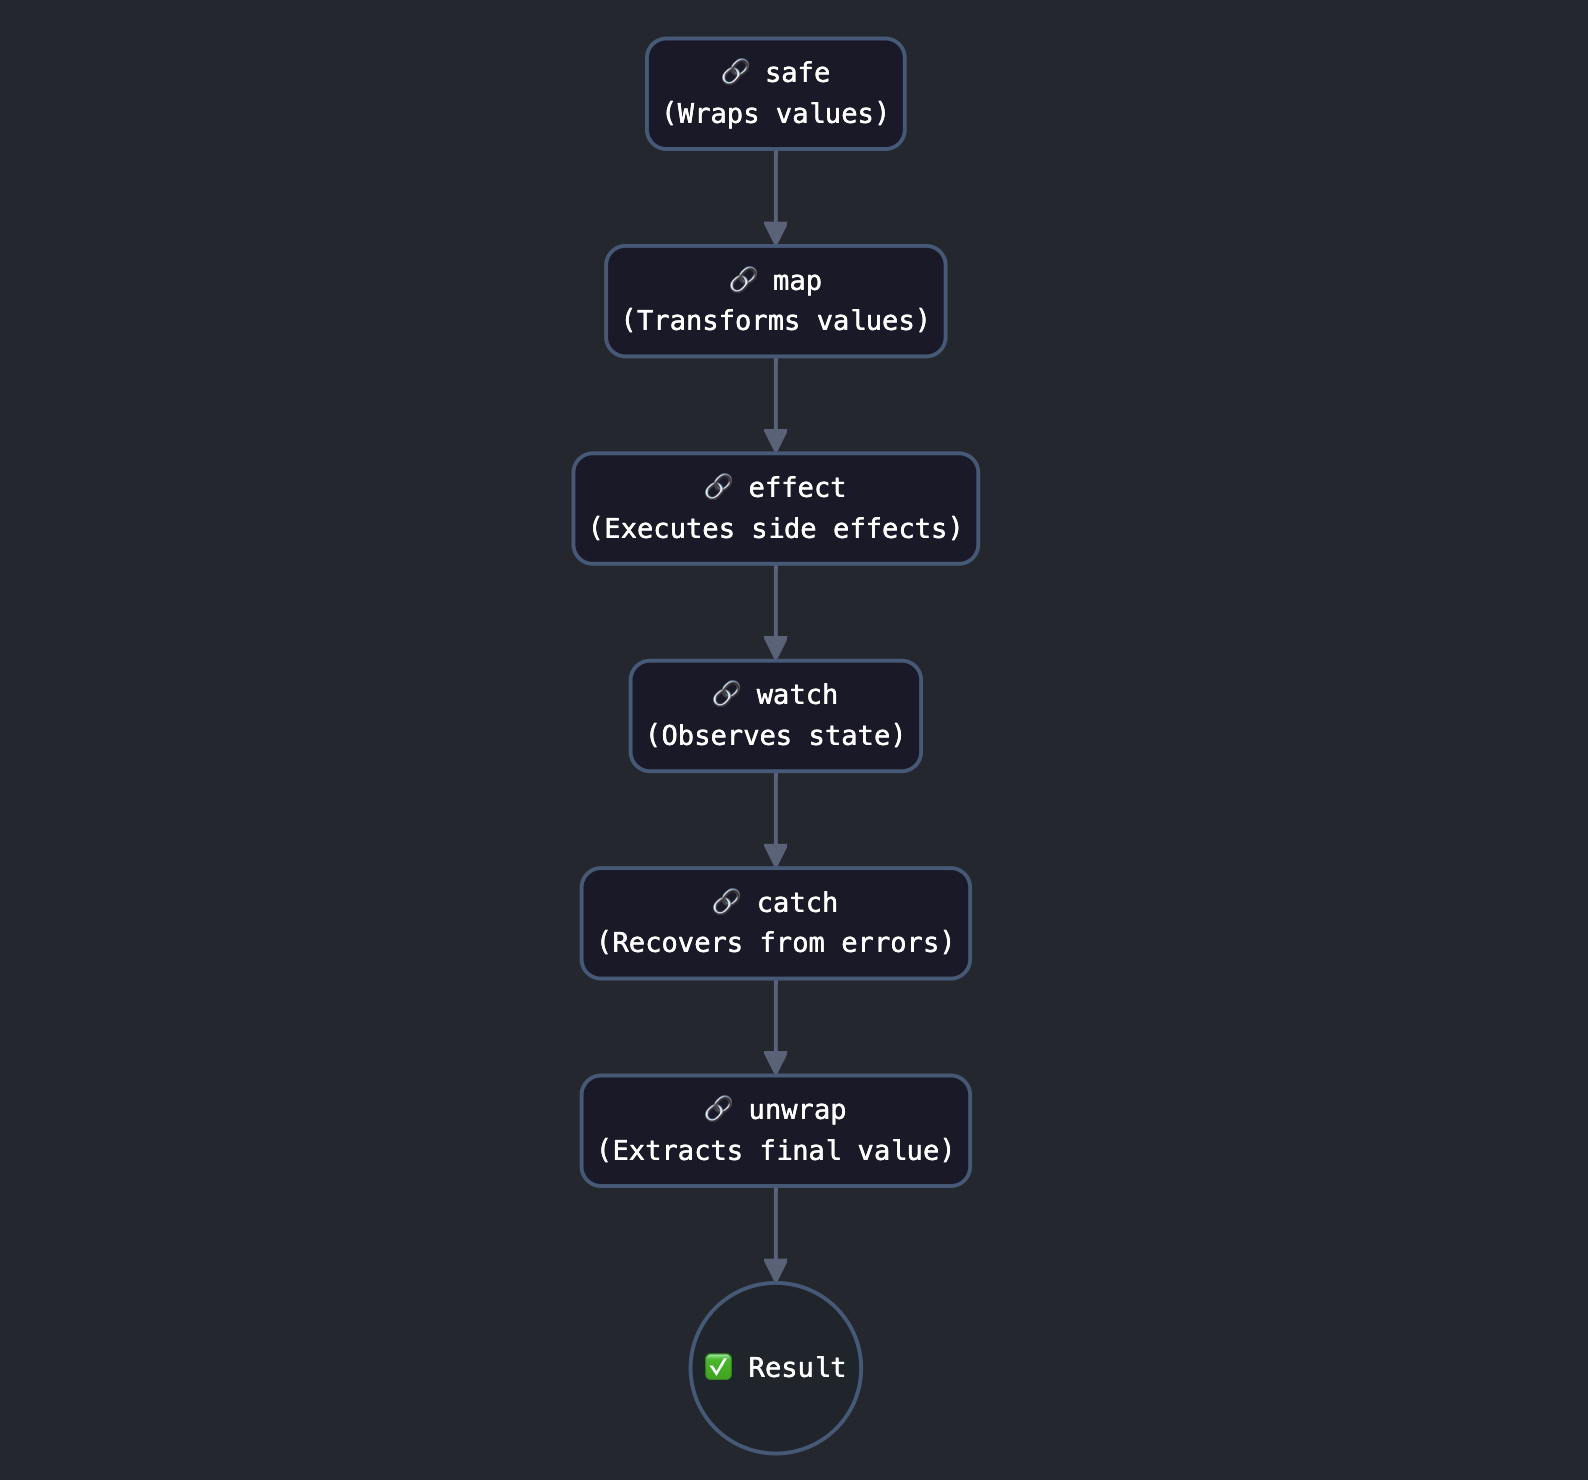
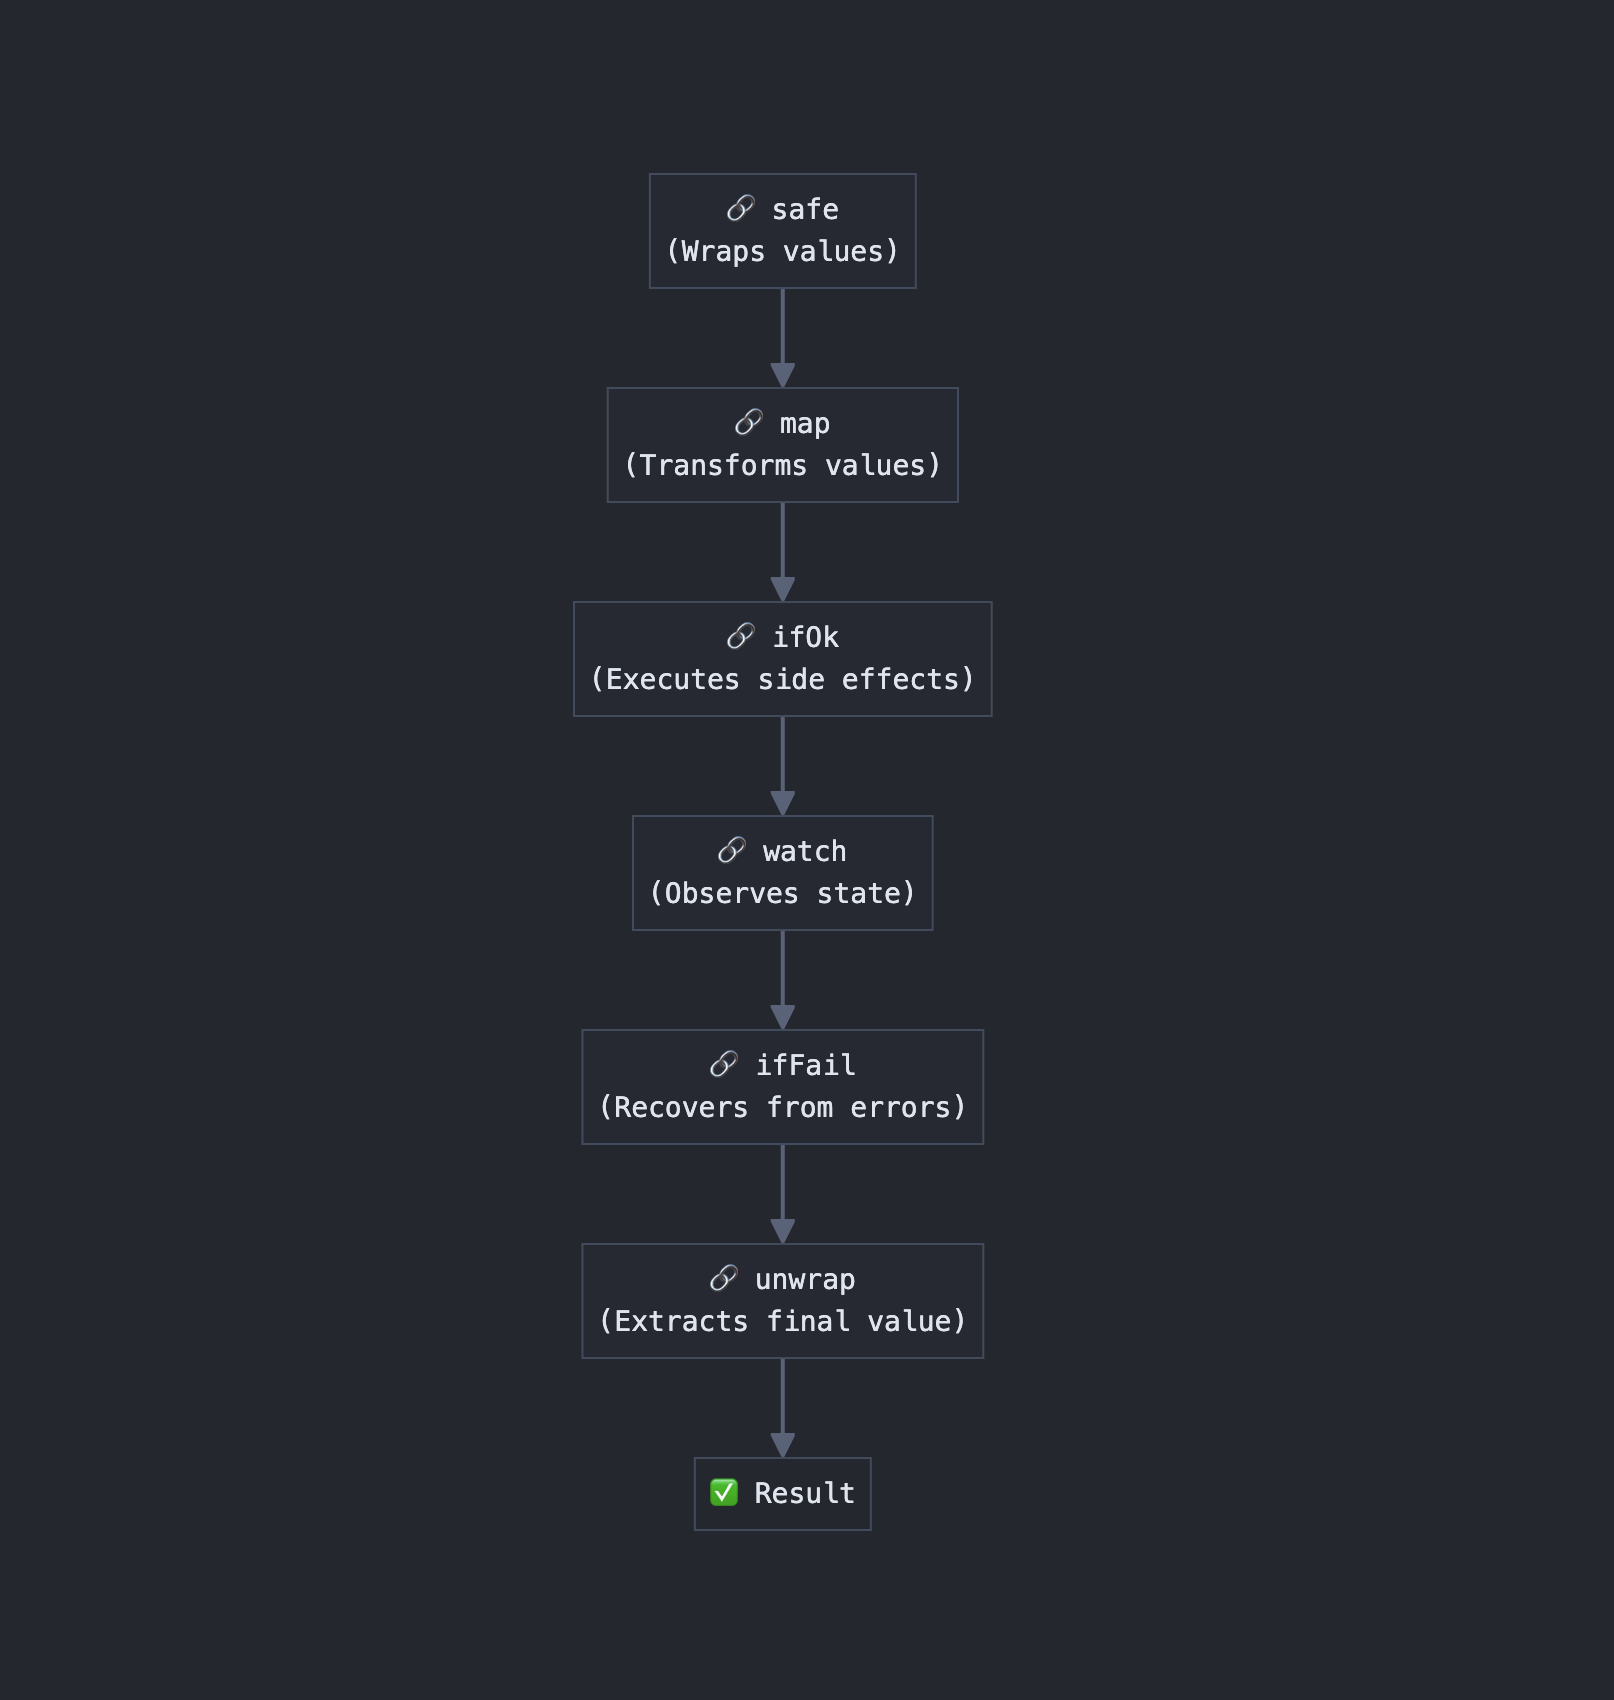
Update version to 0.0.5 and modify README to reflect changes in method names from `effect` and `catch` to `ifOk` and `ifFail` respectively.

Changed region(s): [[0.3394, 0.0, 0.6171, 0.9324], [0.4937, 0.9635, 0.5246, 0.9946]]

diff --git a/src/core.ts b/src/core.ts
@@ -39,6 +39,20 @@ export interface Safe<T> {
   watch(consumer: (result: T extends PromiseLike<any> ? SafeResult<Awaited<T>> : SafeResult<T>) => any): Safe<T>;
 
   /**
+   * Applies a side effect to the value ONLY when the Safe contains a success value (isOk = true).
+   * If the Safe is in an error state, this function is completely skipped.
+   * Errors thrown inside this function will propagate through the chain.
+   * If the function returns a Promise, the chain becomes asynchronous.
+   *
+   * @param effectFn Function to apply only on success state
+   * @returns The same Safe with possibly different promise state
+   */
+  ifOk<U>(
+    effectFn: (value: T extends PromiseLike<any> ? Awaited<T> : T) => U
+  ): T extends PromiseLike<any> ? Safe<T> : U extends PromiseLike<any> ? Safe<Promise<T>> : Safe<T>;
+
+  /**
+   * @deprecated Use ifOk instead
    * Applies a side effect to the value.
    * Errors thrown inside this function will propagate through the chain.
    * If the function returns a Promise, the chain becomes asynchronous.
@@ -51,6 +65,19 @@ export interface Safe<T> {
   ): T extends PromiseLike<any> ? Safe<T> : U extends PromiseLike<any> ? Safe<Promise<T>> : Safe<T>;
 
   /**
+   * Recovers from an error by providing a fallback value ONLY when the Safe contains an error (isOk = false).
+   * If there's no error (success state), this function is completely skipped and the original value is kept.
+   * This is intended specifically for error handling and recovery scenarios.
+   *
+   * @param handler Function that returns a fallback value, only called on error state
+   * @returns A Safe with either the original value or recovery value
+   */
+  ifFail<U>(
+    handler: (error: Error) => U
+  ): Safe<T extends PromiseLike<any> ? Promise<Awaited<T> | (U extends PromiseLike<any> ? Awaited<U> : U)> : T | U>;
+
+  /**
+   * @deprecated Use ifFail instead
    * Recovers from an error by providing a fallback value.
    * If there's no error, the original value is kept.
    *
@@ -126,6 +153,19 @@ const createChain = <Result extends SafeResult | Promise<SafeResult>, T = Extrac
         return prev.value;
       }) as T extends PromiseLike<any> ? Safe<T> : U extends PromiseLike<any> ? Safe<Promise<T>> : Safe<T>;
     },
+    ifOk<U>(
+      effectFn: (value: T extends PromiseLike<any> ? Awaited<T> : T) => U
+    ): T extends PromiseLike<any> ? Safe<T> : U extends PromiseLike<any> ? Safe<Promise<T>> : Safe<T> {
+      return next((prev) => {
+        if (!prev.isOk) throw prev.error;
+        const v = effectFn(prev.value as T extends PromiseLike<any> ? Awaited<T> : T);
+        if (isPromiseLike(v)) {
+          // Wait for the promise to resolve, reject will be handled by next()
+          return v.then(() => prev.value);
+        }
+        return prev.value;
+      }) as T extends PromiseLike<any> ? Safe<T> : U extends PromiseLike<any> ? Safe<Promise<T>> : Safe<T>;
+    },
     watch(consumer: (result: T extends PromiseLike<any> ? SafeResult<Awaited<T>> : SafeResult<T>) => any): Safe<T> {
       return next((prev) => {
         try {
@@ -138,6 +178,18 @@ const createChain = <Result extends SafeResult | Promise<SafeResult>, T = Extrac
       }) as Safe<T>;
     },
     catch<U>(
+      handler: (error: Error) => U
+    ): Safe<T extends PromiseLike<any> ? Promise<Awaited<T> | (U extends PromiseLike<any> ? Awaited<U> : U)> : T | U> {
+      return next((result) => {
+        if (!result.isOk) {
+          return handler(result.error);
+        }
+        return result.value;
+      }) as Safe<
+        T extends PromiseLike<any> ? Promise<Awaited<T> | (U extends PromiseLike<any> ? Awaited<U> : U)> : T | U
+      >;
+    },
+    ifFail<U>(
       handler: (error: Error) => U
     ): Safe<T extends PromiseLike<any> ? Promise<Awaited<T> | (U extends PromiseLike<any> ? Awaited<U> : U)> : T | U> {
       return next((result) => {

diff --git a/test/core.test.ts b/test/core.test.ts
@@ -207,6 +207,68 @@ describe('Safe', () => {
     });
   });
 
+  describe('ifOk', () => {
+    it('should call the ifOk function with the value', () => {
+      const mockFn = vi.fn();
+      const result = safe(42).ifOk(mockFn).unwrap();
+
+      expect(mockFn).toHaveBeenCalledWith(42);
+      expect(result).toBe(42);
+    });
+
+    it('should propagate errors thrown in the ifOk function', () => {
+      const chain = safe(42).ifOk(() => {
+        if (FOURCE) throw new Error('IfOk error');
+      });
+
+      expect(!chain.isOk).toBe(true);
+      expect(() => chain.unwrap()).toThrow('IfOk error');
+    });
+
+    it('should propagate rejected promises from the ifOk function', async () => {
+      const chain = safe(42).ifOk(() => Promise.reject(new Error('IfOk error')));
+
+      await expect(chain.unwrap()).rejects.toThrow('IfOk error');
+    });
+
+    it('should not call the ifOk function if the chain has an error', () => {
+      const mockFn = vi.fn();
+      const chain = safe<number>(() => {
+        throw new Error('Chain error');
+      }).ifOk(mockFn);
+
+      expect(mockFn).not.toHaveBeenCalled();
+      expect(!chain.isOk).toBe(true);
+    });
+
+    it('should handle async ifOk properly', async () => {
+      // Using a setTimeout promise to ensure we're testing real async behavior
+      let ifOkExecuted = false;
+
+      const chain = safe(42).ifOk(() => {
+        return new Promise((resolve) => {
+          setTimeout(() => {
+            ifOkExecuted = true;
+            resolve('different value');
+          }, 10);
+        });
+      });
+
+      // Should wait for the promise to resolve
+      const result = await chain.unwrap();
+      expect(result).toBe(42);
+      expect(ifOkExecuted).toBe(true);
+    });
+
+    it('should maintain original chain value when ifOk returns a different value', () => {
+      const result = safe(42)
+        .ifOk(() => 'different value')
+        .unwrap();
+
+      expect(result).toBe(42);
+    });
+  });
+
   describe('catch', () => {
     it('should replace an error with a recovery value', () => {
       const result = safe<number>(() => {
@@ -251,6 +313,55 @@ describe('Safe', () => {
       const chain = safe<number>(() => {
         throw new Error('Original error');
       }).catch(() => Promise.reject(new Error('Recovery error')));
+
+      await expect(chain.unwrap()).rejects.toThrow('Recovery error');
+    });
+  });
+
+  describe('ifFail', () => {
+    it('should replace an error with a recovery value', () => {
+      const result = safe<number>(() => {
+        throw new Error('Test error');
+      })
+        .ifFail(() => 42)
+        .unwrap();
+
+      expect(result).toBe(42);
+    });
+
+    it('should not affect chains with success values', () => {
+      const result = safe(24)
+        .ifFail(() => 42)
+        .unwrap();
+      expect(result).toBe(24);
+    });
+
+    it('should capture errors thrown in the recovery function', () => {
+      const chain = safe(() => {
+        throw new Error('Original error');
+        return '';
+      }).ifFail(() => {
+        throw new Error('Recovery error');
+        return '';
+      });
+
+      expect(() => chain.unwrap()).toThrow('Recovery error');
+    });
+
+    it('should handle async recovery values', async () => {
+      const result = await safe<number>(() => {
+        throw new Error('Test error');
+      })
+        .ifFail(() => Promise.resolve(42))
+        .unwrap();
+
+      expect(result).toBe(42);
+    });
+
+    it('should handle rejected promises in recovery function', async () => {
+      const chain = safe<number>(() => {
+        throw new Error('Original error');
+      }).ifFail(() => Promise.reject(new Error('Recovery error')));
 
       await expect(chain.unwrap()).rejects.toThrow('Recovery error');
     });

diff --git a/README.md b/README.md
@@ -30,8 +30,8 @@ import { safe } from 'ts-safe';
 
 const result = safe(10)
   .map((x) => x * 2) // Transform the value (10 -> 20)
-  .effect(logValue) // Side effect with error propagation
-  .catch(handleErrors) // Error recovery if needed
+  .ifOk(logValue) // Side effect with error propagation
+  .ifFail(handleErrors) // Error recovery if needed
   .watch(observeState); // Side effect without error propagation
 
 console.log(result.isOk); // Check if chain contains a success value
@@ -90,20 +90,20 @@ console.log(promiseResult.isOk); //Promise<boolean>
 promiseResult.unwrap() // Promise<Data>
 ```
 
-### effect: Applying Side Effects
+### ifOk: Applying Side Effects on Success
 
 ```typescript
-// Synchronous effect example - note that the return value doesn't change chain value
+// Synchronous ifOk example - note that the return value doesn't change chain value
 const syncResult = safe(42)
-  .effect((value) => {
+  .ifOk((value) => {
     console.log(`Processing value: ${value}`);
     return Boolean(value); // This return value doesn't affect the chain's value
   })
   .unwrap(); // Still returns 42
 
-// Asynchronous effect example - returning a Promise makes chain async
+// Asynchronous ifOk example - returning a Promise makes chain async
 const asyncResult = safe('data')
-  .effect(async (data) => {
+  .ifOk(async (data) => {
   // The chain becomes asynchronous when a Promise is returned
   await saveToDatabase(data);
   console.log('Data saved successfully');
@@ -112,9 +112,9 @@ const asyncResult = safe('data')
 await asyncResult.isOk; // Promise<true>
 const result = await asyncResult.unwrap(); // "data"
 
-// Effect with error propagation example
+// ifOk with error propagation example
 const errorResult = safe('data')
-.effect((data) => {
+.ifOk((data) => {
   throw new Error('Save Error'); // This error propagates through the chain
 });
 console.log(errorResult.isOk); // false
@@ -156,7 +156,7 @@ const syncChain = safe(10)
 console.log(syncChain.unwrap()); // 15 (synchronous return)
 ```
 
-### catch: Recovering from Errors
+### ifFail: Recovering from Errors
 
 ```typescript
 // Error recovery example
@@ -164,7 +164,7 @@ const result = safe(() => {
   throw new Error('Initial error');
 })
   .map((x) => x + 10) // Not executed due to the error
-  .catch((error) => {
+  .ifFail((error) => {
     console.log(`Error recovery: ${error.message}`);
     return 42; // Provide a fallback value
   })
@@ -203,13 +203,13 @@ Transforms the value in the chain. Changes the value type from T to U.
 
 Observes the current state of the chain without affecting it. Receives a result object containing either a value or an error.
 
-#### `effect<U>(effectFn: (value: T ) => U): Safe<U extends Promise<any> ? Promise<T> : T>`
+#### `ifOk<U>(effectFn: (value: T ) => U): Safe<U extends Promise<any> ? Promise<T> : T>`
 
-Applies a side effect to the value. If it returns a Promise, the chain becomes asynchronous. If an error occurs, it propagates to the chain.
+Conditionally applies a side effect ONLY when the Safe contains a success value (isOk = true). Completely skipped if the chain is in an error state. If it returns a Promise, the chain becomes asynchronous. Any errors thrown inside propagate to the chain.
 
-#### `catch<U>(handler: (error: Error) => U): Safe<T|U>`
+#### `ifFail<U>(handler: (error: Error) => U): Safe<T|U>`
 
-Provides a fallback value when the chain contains an error. If it returns a Promise, the chain becomes asynchronous.
+Conditionally executes the handler ONLY when the Safe contains an error (isOk = false). Provides a fallback or recovery value to continue the chain. Completely skipped if the chain is in a success state. If it returns a Promise, the chain becomes asynchronous.
 
 #### `isOk: Promise<boolean> | boolean`
 
@@ -233,7 +233,7 @@ Safe intelligently handles synchronous and asynchronous operations according to 
    - Errors that occur inside do not propagate to the chain
    - Access to both values and errors through the Result object
 
-2. **Methods with side effects** (`effect`, `catch`)
+2. **Methods with side effects** (`ifOk`, `ifFail`)
 
    - Returning a Promise makes the chain asynchronous
    - Errors that occur inside propagate to the chain
@@ -257,10 +257,10 @@ Common validation and observer and retry patterns:
 import { safe,errorIfNull, errorIfEmpty, watchOk, watchError,retry } from 'ts-safe';
 
 safe(userData)
-  .effect(errorIfNull('User data is required')) // valid
+  .ifOk(errorIfNull('User data is required')) // valid
   .map((user) => user.email)
-  .effect(errorIfEmpty('Email cannot be empty'))
-  .effect(retry(sendMail)) // retry 
+  .ifOk(errorIfEmpty('Email cannot be empty'))
+  .ifOk(retry(sendMail)) // retry 
   .watch(watchOk(value => console.log(value))) // obserbe
   .watch(watchError(error => console.error(error)));
 ```

diff --git a/docs/util.md b/docs/util.md
@@ -11,19 +11,19 @@ import { safe, errorIfNull, errorIfEmpty, errorIfFalsy, errorIf } from 'ts-safe'
 
 // Check for null/undefined values
 safe(userData)
-  .effect(errorIfNull('User data is required'))
+  .ifOk(errorIfNull('User data is required'))
   .map(user => user.email)
   .unwrap();
 
 // Check for empty arrays or strings
 safe(emails)
-  .effect(errorIfEmpty('Email list cannot be empty'))
+  .ifOk(errorIfEmpty('Email list cannot be empty'))
   .map(list => sendEmails(list))
   .unwrap();
 
 // Check using a custom condition
 safe(user)
-  .effect(errorIf((user) => 
+  .ifOk(errorIf((user) => 
     !user.agreeToTerms && 'User must agree to terms'
   ))
   .unwrap();
@@ -76,7 +76,7 @@ safe(transactionData)
 
 // With effect
 safe(userData)
-  .effect(retry(saveToDatabase, { maxTries: 3 }))
+  .ifOk(retry(saveToDatabase, { maxTries: 3 }))
   .unwrap();
 ```
 
@@ -88,9 +88,9 @@ import { safe, errorIfNull, errorIfEmpty, watchOk, watchError, retry  } from 'ts
 function processPayment(paymentData) {
   return safe(paymentData)
     // Validate required data
-    .effect(errorIfNull('Payment data is required'))
+    .ifOk(errorIfNull('Payment data is required'))
     .map(data => data.amount)
-    .effect(errorIf(amount => amount <= 0 && 'Amount must be greater than zero'))
+    .ifOk(errorIf(amount => amount <= 0 && 'Amount must be greater than zero'))
     .map(amount => ({
       amount,
       fee: calculateFee(amount),
